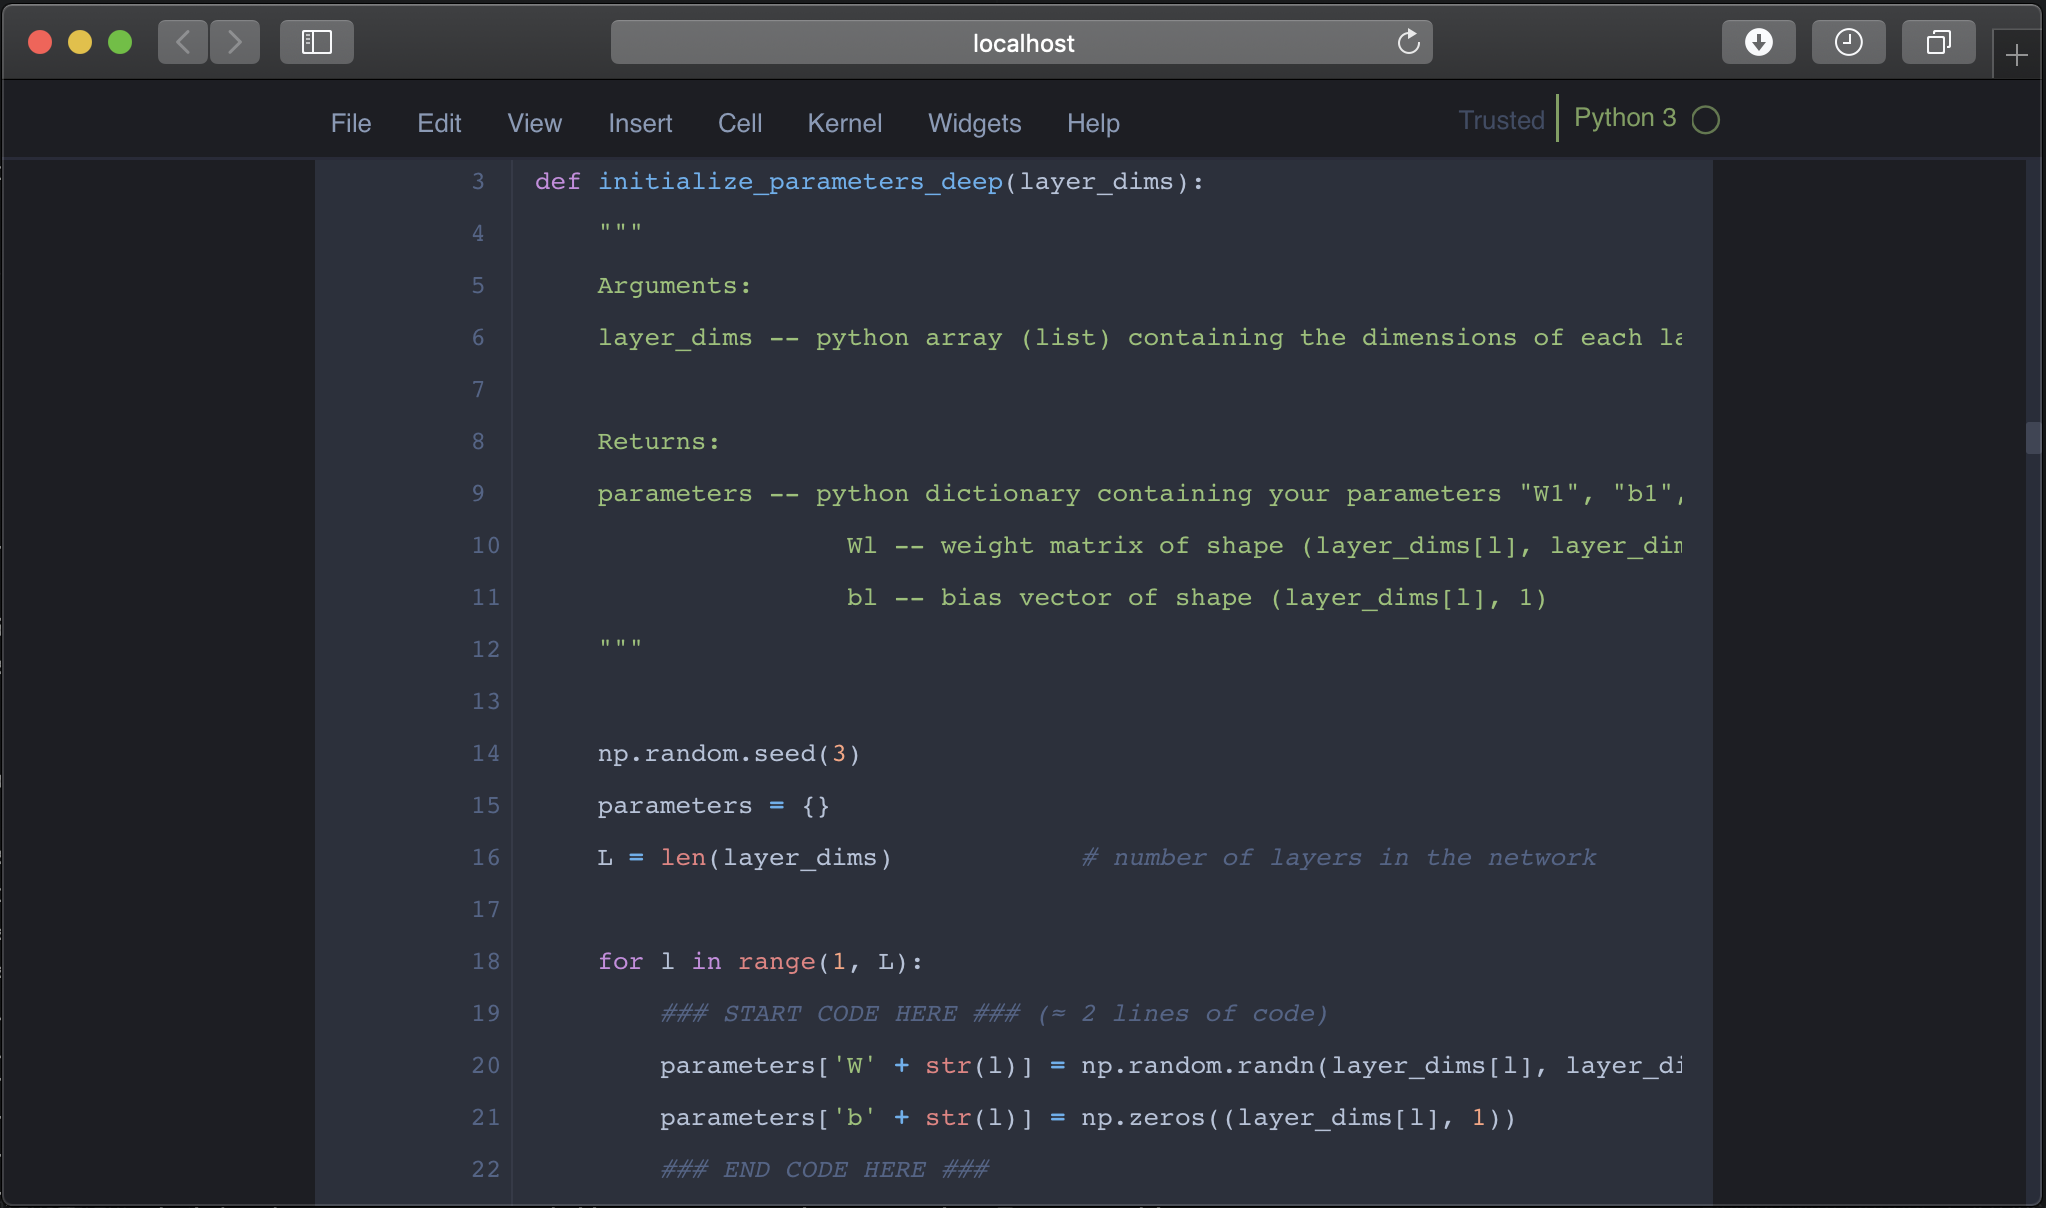
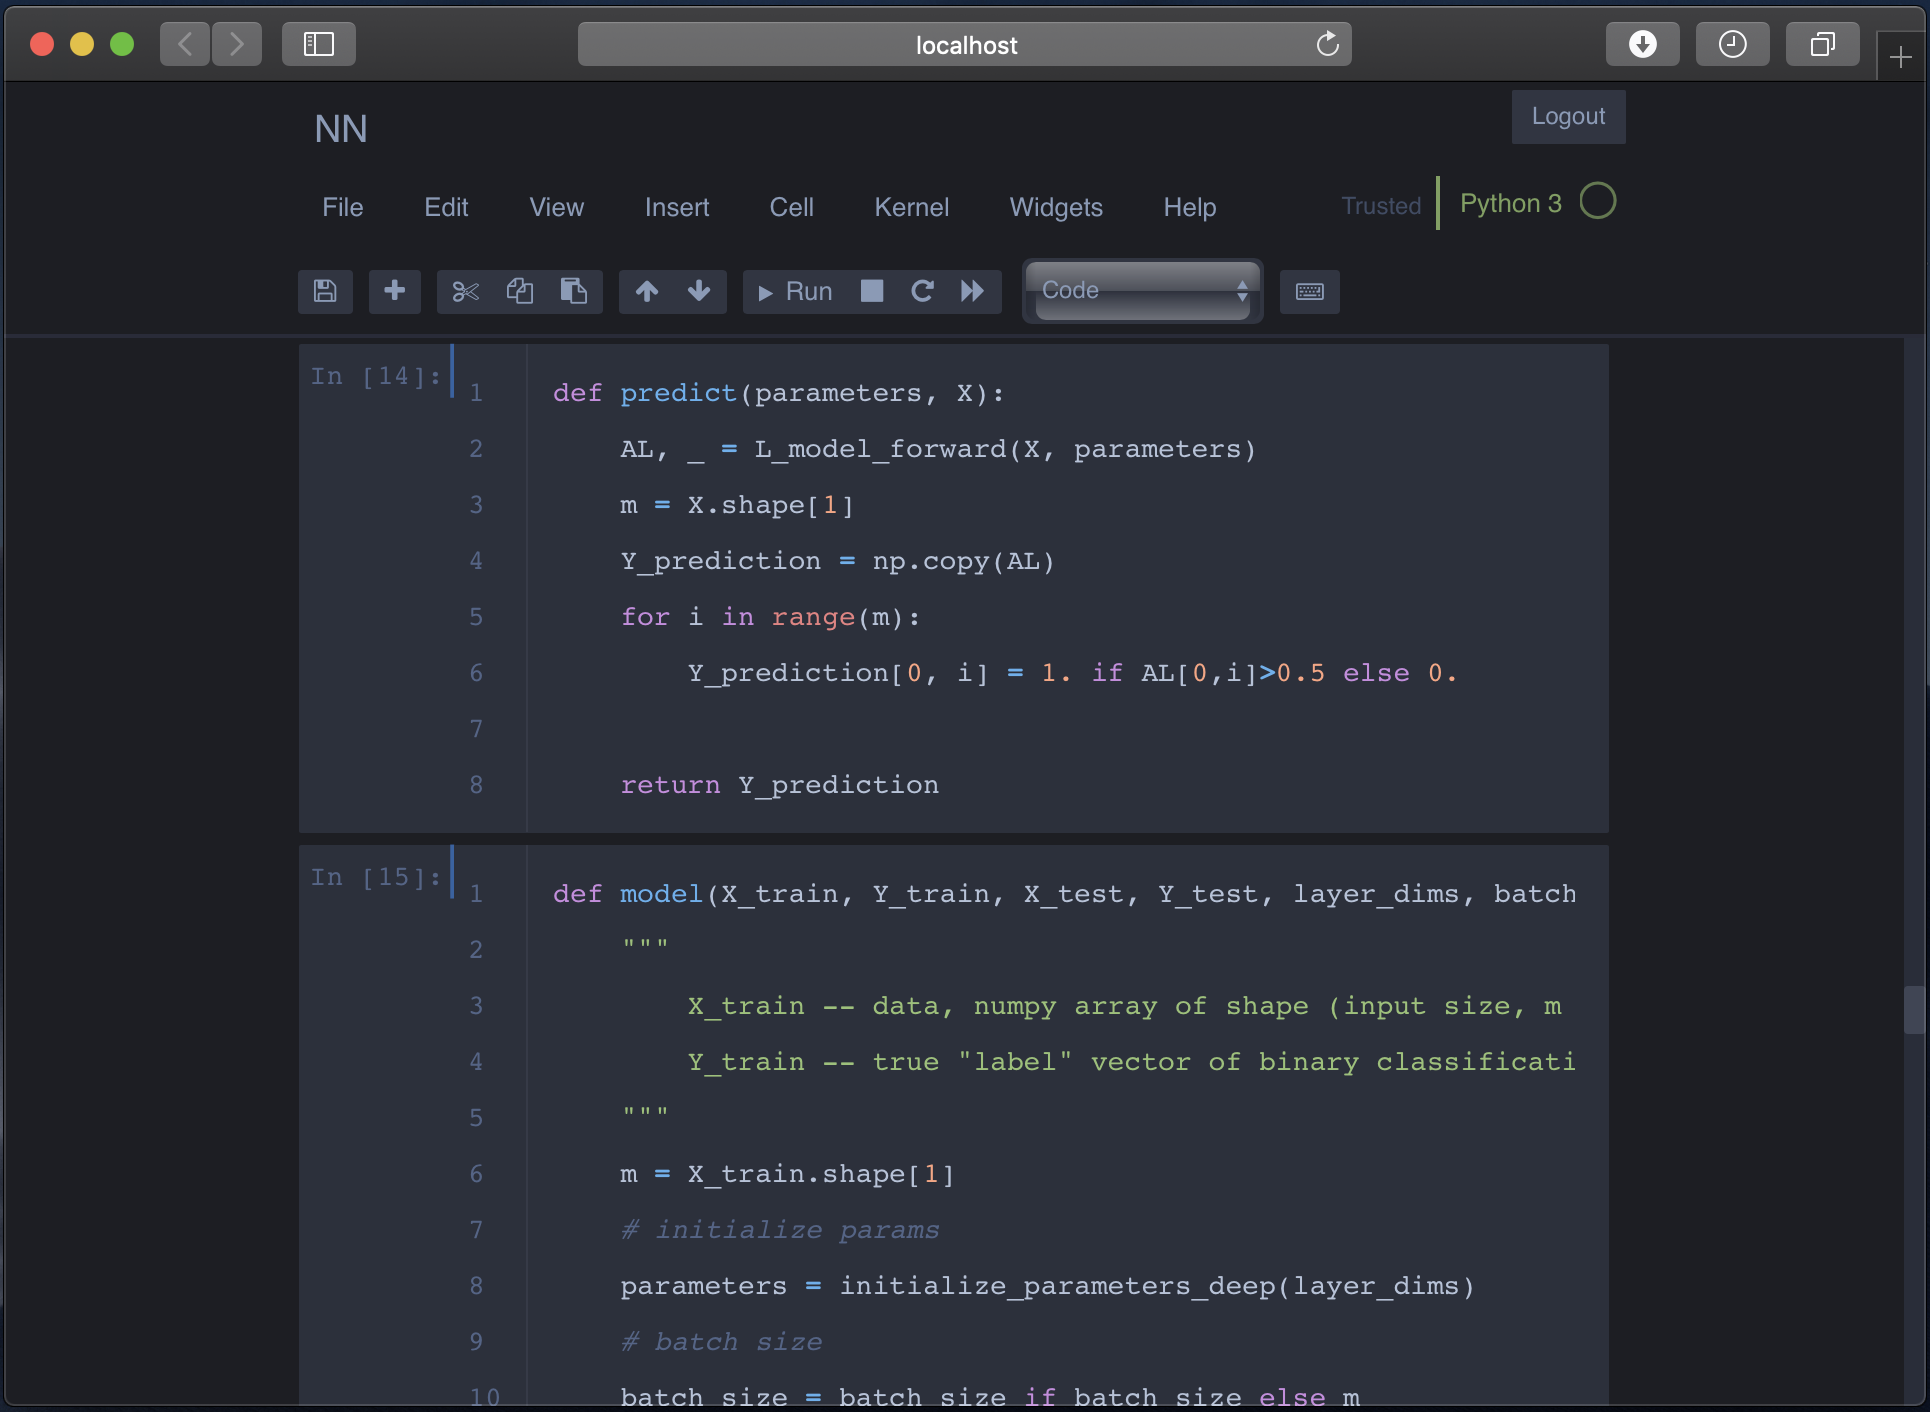
Add startup configuration

diff --git a/startup.py b/startup.py
@@ -1,0 +1,6 @@
+# import jtplot module in notebook
+from jupyterthemes import jtplot
+
+# choose which theme to inherit plotting style from
+# onedork | grade3 | oceans16 | chesterish | monokai | solarizedl | solarizedd
+jtplot.style(theme='onedork')

diff --git a/README.md b/README.md
@@ -5,12 +5,18 @@ Already tested in chrome and safari
 ### Installation
 
 ```bash
-copy custom.css to ~/.jupyter/custom
+git clone https://github.com/deryrahman/jupyter-notebook-one-dark-theme.git
+cd jupyter-notebook-one-dark-theme
+cp custom.css ~/.jupyter/custom/custom.css
+pip install jupyterthemes
+cp startup.py ~/.ipython/profile_default/startup/startup.py
 ```
 
 ### Screenshots
 ![alt text](img/1.png "Screenshot 1")
 ![alt text](img/2.png "Screenshot 2")
+![alt text](img/3.png "Matplotlib")
+![alt text](img/4.png "Seaborn")
 
 ---
 References:
